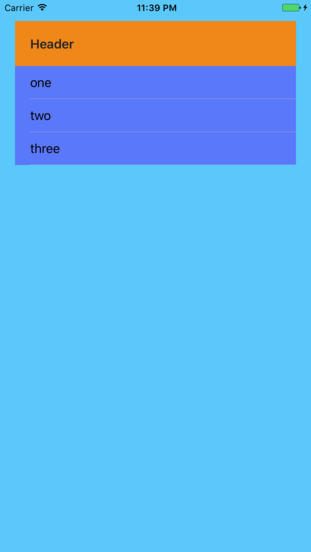
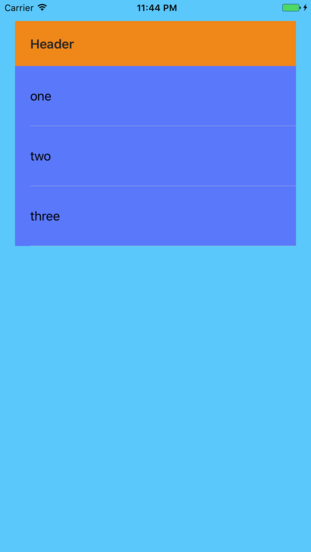
Updated screenshots

Changed region(s): [[0.0289, 0.2464, 0.955, 0.462], [0.0868, 0.1232, 0.1736, 0.2156], [0.463, 0.0, 0.5788, 0.0308]]

diff --git a/SimpleTableView/SimpleTableView/SimpleTableViewController.swift b/SimpleTableView/SimpleTableView/SimpleTableViewController.swift
@@ -17,6 +17,7 @@ class  SimpleTableViewController: UITableViewController {
 
         tableView.backgroundColor = UIColor(red: 90/255.0, green: 200.0/255.0, blue: 250.0/255, alpha: 1.0) // Apple Videos
         
+        tableView.rowHeight = 80
         tableView.tableFooterView = UIView() // Remove "empty" table centers in footer
         self.tableView.register(UITableViewCell.self, forCellReuseIdentifier:CellIdentifier)
     }
